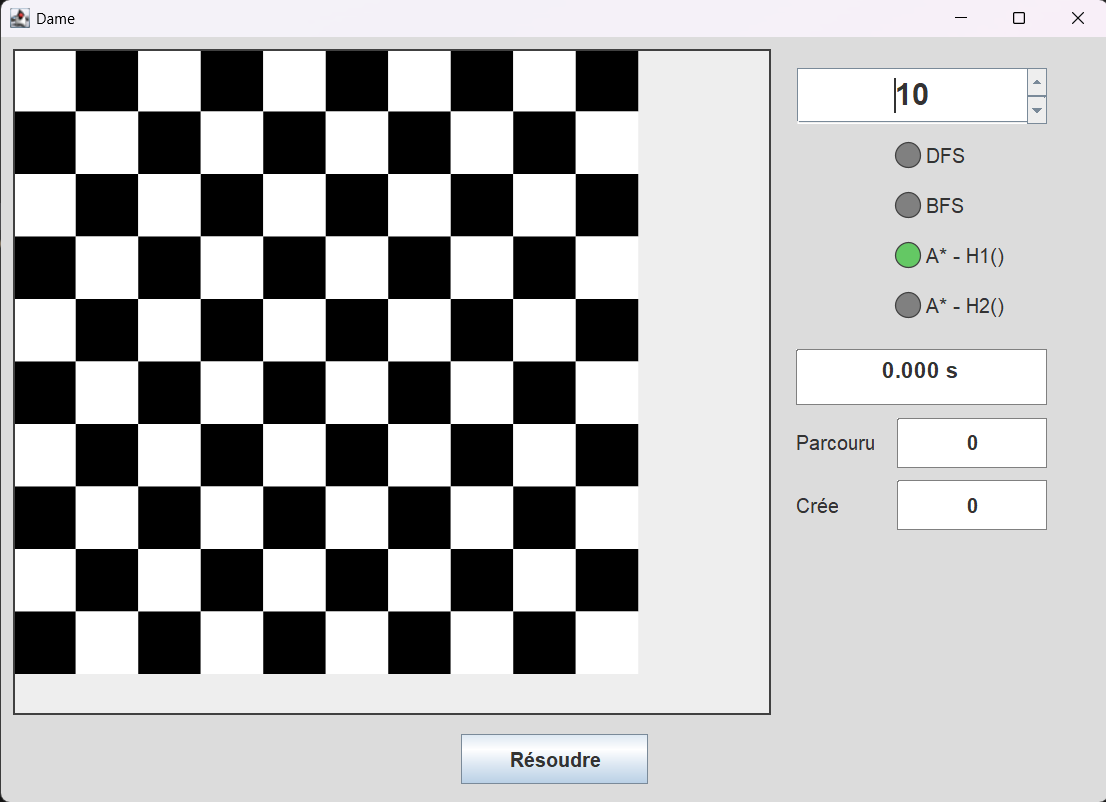
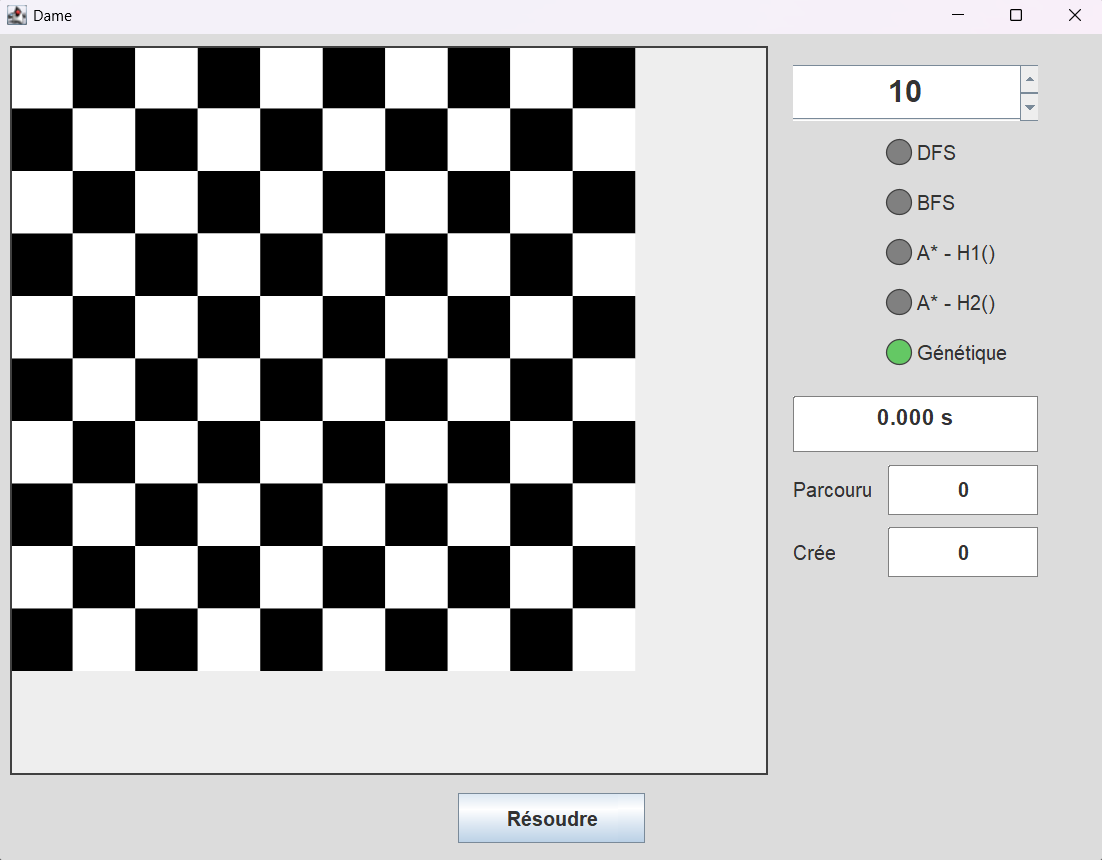
maj screenshot

diff --git a/README.md b/README.md
@@ -150,7 +150,7 @@ For the **N-Queens problem**:
 - **DFS** is the most practical uninformed search method, efficient for small boards.  
 - **BFS** is complete but **impractical for large N** due to exponential memory usage.  
 - **A\*** (with **H1** or **H2**) offers a **deterministic and efficient** solution approach.  
-- **Genetic Algorithm** performs best for **large N (≥ 20)**, providing **fast convergence** to valid or near-valid configurations even when exhaustive methods fail.  
+- **Genetic Algorithm** provides near-valid solutions for large N, trading exactness for scalability and speed. It can perform very well in some runs, but may also get stuck in local optima due to its stochastic nature..  
 - **H1 (Conflict Heuristic)** typically outperforms **H2**, as it more directly penalizes queen conflicts.  
 
 ---
